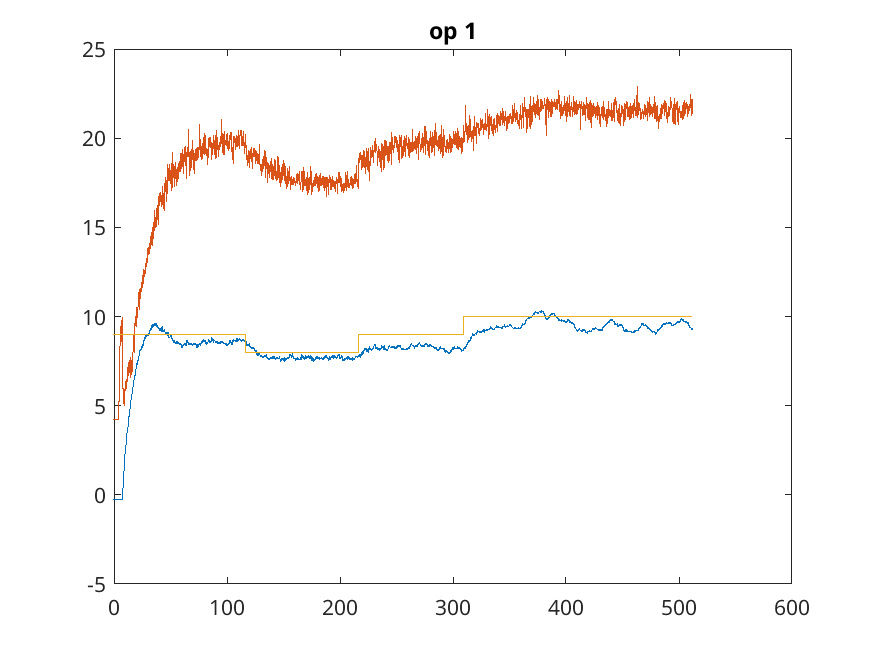
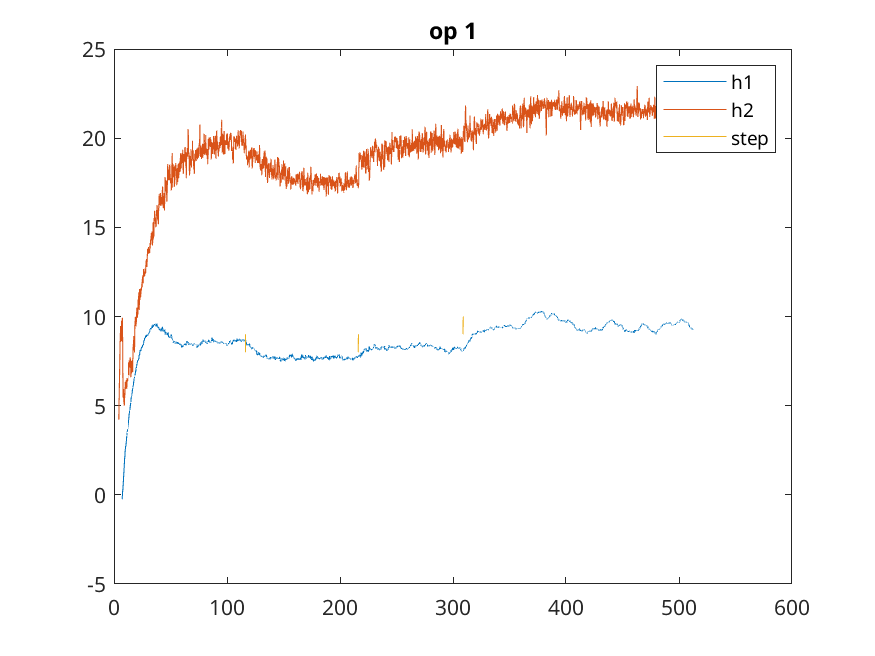
Add value getting functions
They mostly work

diff --git a/lab_2_example.m b/lab_2_example.m
@@ -1,4 +1,4 @@
-
+close all
 % load the workspace from the prac first.
 data = load("matlab.mat");
 
@@ -26,32 +26,96 @@ h2_op3 = OP_3.measurements.Tank_2_Level__m_.Data;
 step_op3 = OP_3.ref_signal.Data;
 
 
-Fig_1 = figure('Visible', 'off');
+Fig_1 = figure
 plot(time_op1, smooth(h1_op1)); % may need smoothing - depending on how noisy the signal is
 hold on;
 plot(time_op1, smooth(h2_op1));
 hold on;
 plot(time_op1, step_op1);
 title("op 1")
+legend("h1", "h2", "step")
 saveas(gcf, 'Fig_1.png'); % matlab crashes if i render it. So save it to a png
 
-Fig_2 = figure('Visible', 'off');
+Fig_2 = figure
 plot(time_op2, smooth(h1_op2));
 hold on;
 plot(time_op2, smooth(h2_op2));
 hold on;
 plot(time_op2, step_op2);
 title("op 2")
+legend("h1", "h2", "step")
 saveas(gcf, 'Fig_2.png');
 
-Fig_3 = figure('Visible', 'off');
+Fig_3 = figure
 plot(time_op3, smooth(h1_op3));
 hold on;
 plot(time_op3, smooth(h2_op3));
 hold on;
 plot(time_op3, step_op3);
 title("op 3")
+legend("h1", "h2", "step")
 saveas(gcf, 'Fig_3.png');
 
 % find final value, gain, settling time, rise time ....
 
+
+[Final_Value_op1_h1, Gain_op1_h1, Settling_Time_op1_h1] = find_vals(smooth(h1_op1), step_op1, time_op1)
+[Final_Value_op2_h1, Gain_op2_h1, Settling_Time_op2_h1] = find_vals(smooth(h1_op2), step_op2, time_op2)
+[Final_Value_op3_h1, Gain_op3_h1, Settling_Time_op3_h1] = find_vals(smooth(h1_op3), step_op3, time_op3)
+
+[Final_Value_op1_h2, Gain_op1_h2, Settling_Time_op1_h2] = find_vals(smooth(h2_op1), step_op1, time_op1)
+[Final_Value_op2_h2, Gain_op2_h2, Settling_Time_op2_h2] = find_vals(smooth(h2_op2), step_op2, time_op2)
+[Final_Value_op3_h2, Gain_op3_h2, Settling_Time_op3_h2] = find_vals(smooth(h2_op3), step_op3, time_op3)
+
+function [FV_array, G_array, ST_array] = find_vals(h, step, time)
+    dif = diff(step);
+    FV_array = [];
+    G_array = [];
+    ST_array = [];
+    for i = 1:length(dif)
+        if (dif(i) ~= 0)
+            start_pos = i;
+            end_pos = length(dif);
+            for j = (start_pos + 1):length(dif)
+                if (dif(j) ~= 0)
+                    end_pos = j;
+                    break;
+                end
+            end
+            i = end_pos - 1;
+            ST_pos = settling_time(h, start_pos, end_pos);
+            FV = final_value(h, ST_pos, end_pos);
+            G = (FV - h(start_pos))/(step(end_pos) - step(start_pos));
+            
+            FV_array = [FV_array, FV];
+            G_array = [G_array, G];
+            ST_array = [ST_array, ST_pos];            
+        end
+    end
+    ST_array = time(ST_array);
+    
+end
+
+function ST = settling_time(h, start_pos, end_pos) % This function isnt great
+    percent = 2/100;
+    IV = h(start_pos);
+    FV = final_value(h, start_pos, end_pos);
+    tol = percent*FV;
+    LB = FV - tol;
+    UB = FV + tol;
+    ST = NaN;
+    for i = start_pos:end_pos
+        if (h(i) >= LB && h(i) <= UB)
+            ST = i;
+            break;
+            %if (all(h(i:end_pos) >= LB & h(i:end_pos) <= LB))
+            %    ST = i;
+            %    break;
+            %end
+        end
+    end
+end
+
+function FV = final_value(h, ST_pos, end_pos)
+    FV = mean(h(ST_pos:end_pos));
+end
